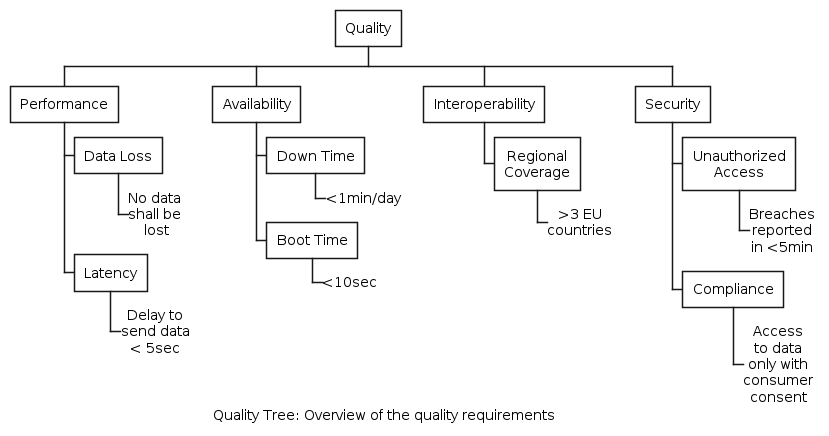
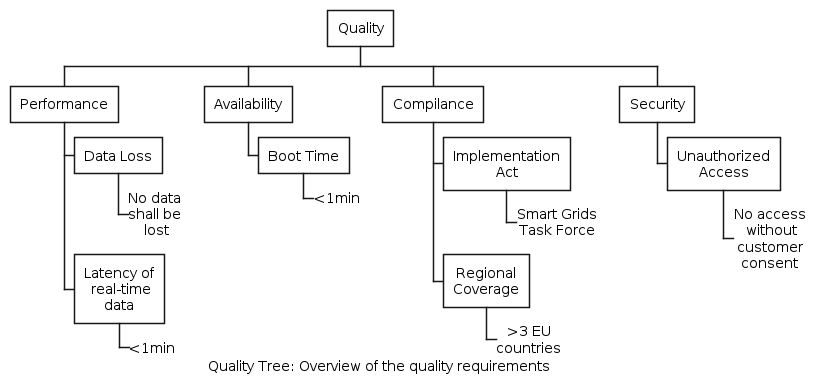
Organize quality requirements section

Changed region(s): [[0.0, 0.0, 1.0, 0.9612], [0.8852, 0.7442, 0.9768, 0.9302]]

diff --git a/arc42/10-quality-requirements/index.md b/arc42/10-quality-requirements/index.md
@@ -18,29 +18,34 @@ requirements:
 quality tree example https://arnon.me/2010/05/utility-trees-hatching-quality-attributes/
 -->
 
-The quality requirements of the system are outlined in the quality tree below. This tree has 4 main attributes, i.e., Performance, Availability, Interoperability,  and Security, each one having one or more requirements.
+The quality requirements of the system are outlined in the quality tree below. This tree has 4 main attributes, i.e., Performance, Availability, Compliance,  and Security, each one having one or more requirements.
 
 <div align="center"> 
 <img src="./figures/quality-tree.png" width=750>
 </div>
 
-A table of requirements that need further explanation is shown below. This table provides links to the following sections which describe scenarios showing the behavior of the system when a stimulus that affects a requirement arrives.
+For each attribute, a table of requirements that need further explanation is shown below. These tables provide links to the following sections which describe scenarios showing the behavior of the system when a stimulus that affects a requirement arrives.
 
-| Attribute | Requirement | Section |
-|-|-|-|
-| Performance | Data Loss|  |
-| Performance | Latency | [Link](./latency-real-time-data/latency-real-time-data.md)|
-| Availability | Down Time |  |
-| Availability | Boot Time |  |
-| Interoperability | Coverage |  |
-| Security | Unauthorized Access |  |
-| Security | Compliance |  |
+| Performance Requirement | Section |
+|-|-|
+| Data Loss|  |
+| Latency of real-time data | [Link](./performance/latency-real-time-data/latency-real-time-data.md)|
 
-Requirements stem also from regulatory aspects of the energy sector. The table below includes such requirements.
+| Availability Requirement | Section |
+|-|-|
+| Boot Time |  |
 
-| Source | Requirement | Section |
-|-|-|-|
-| Implementing Act | Compliance with the Implementing Act defined by TBD | [Link](./implementing-act/implementing-act.md) |
+
+| Compliance Requirement | Section |
+|-|-|
+| Smart Grids Task Force | [Link](./compliance/implementing-act/implementing-act.md)
+| Regional Coverage | |
+
+| Security Requirement | Section |
+|-|-|
+| Unauthorized Access |  |
+
+
 
 
 <!-- Concretization of (sometimes vague or implicit) quality requirements

diff --git a/arc42/06-runtime-view/eligible-party-registration/eligible-party-registration.md b/arc42/06-runtime-view/eligible-party-registration/eligible-party-registration.md
@@ -1,10 +1,10 @@
 ---
-title: Eligible Party Registration to MDA
+title: Registration to MDA
 ---
 
 <!-- Add runtime diagram or textual description of the scenario/
 Add a description of the notable aspects of the interactions between the building block instances depicted in this diagram. -->
 
-## Eligible Party Registration
+## Eligible Party Registration to MDA
 
 The workflow of an eligible party that registers with an MDA.

diff --git a/arc42/06-runtime-view/eligible-party-gets-historical-data/eligible-party-gets-historical-data.md b/arc42/06-runtime-view/eligible-party-gets-historical-data/eligible-party-gets-historical-data.md
@@ -1,5 +1,5 @@
 ---
-title: Eligible Party Gets Historical Data
+title: Access to Historical Data
 ---
 
 <!-- Add runtime diagram or textual description of the scenario/

diff --git a/arc42/10-quality-requirements/performance/latency-real-time-data/latency-real-time-data.md b/arc42/10-quality-requirements/performance/latency-real-time-data/latency-real-time-data.md
@@ -1,5 +1,5 @@
 ---
-title: Latency to Send Real-time Data
+title: Latency of Real-time Data
 ---
 
 ## Context

diff --git a/arc42/10-quality-requirements/performance/index.md b/arc42/10-quality-requirements/performance/index.md
@@ -1,0 +1,3 @@
+---
+title: Performance
+---

diff --git a/arc42/10-quality-requirements/compliance/index.md b/arc42/10-quality-requirements/compliance/index.md
@@ -1,0 +1,3 @@
+---
+title: Compliance
+---
